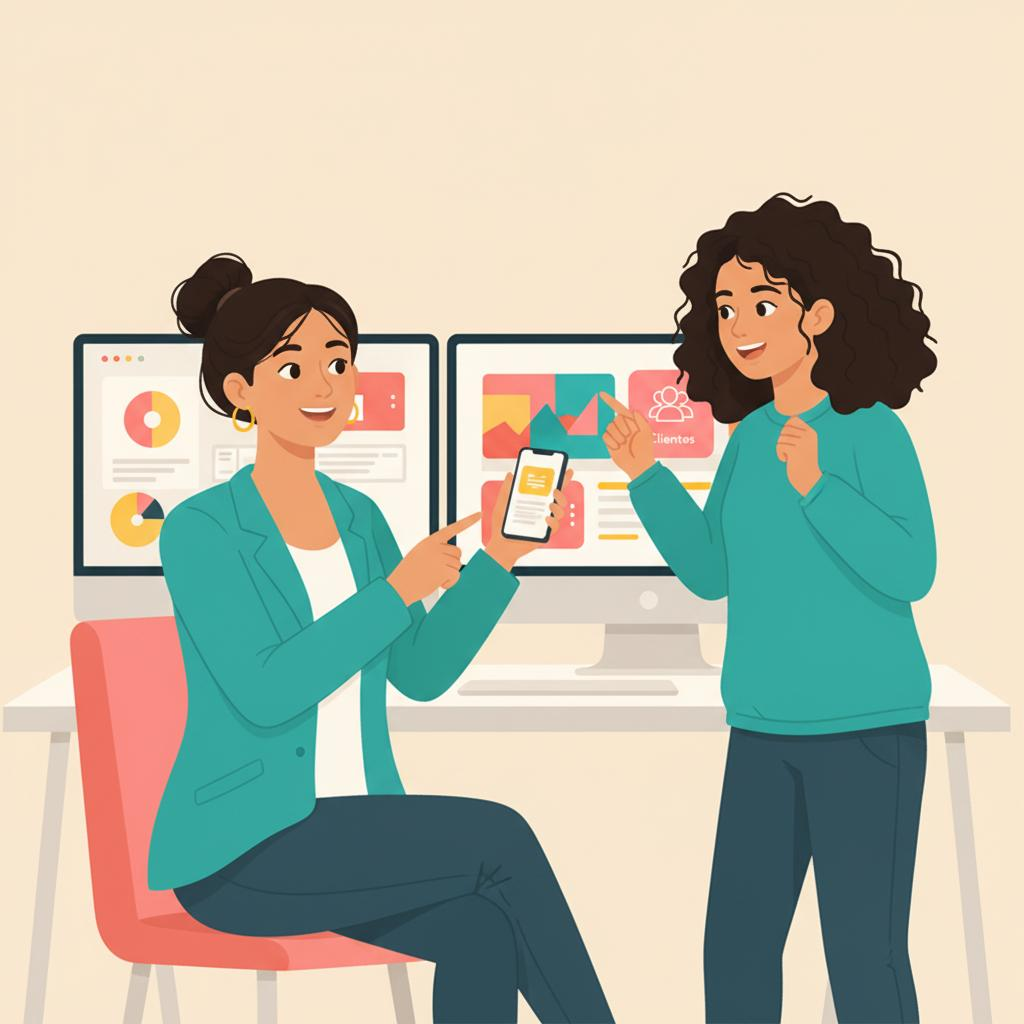
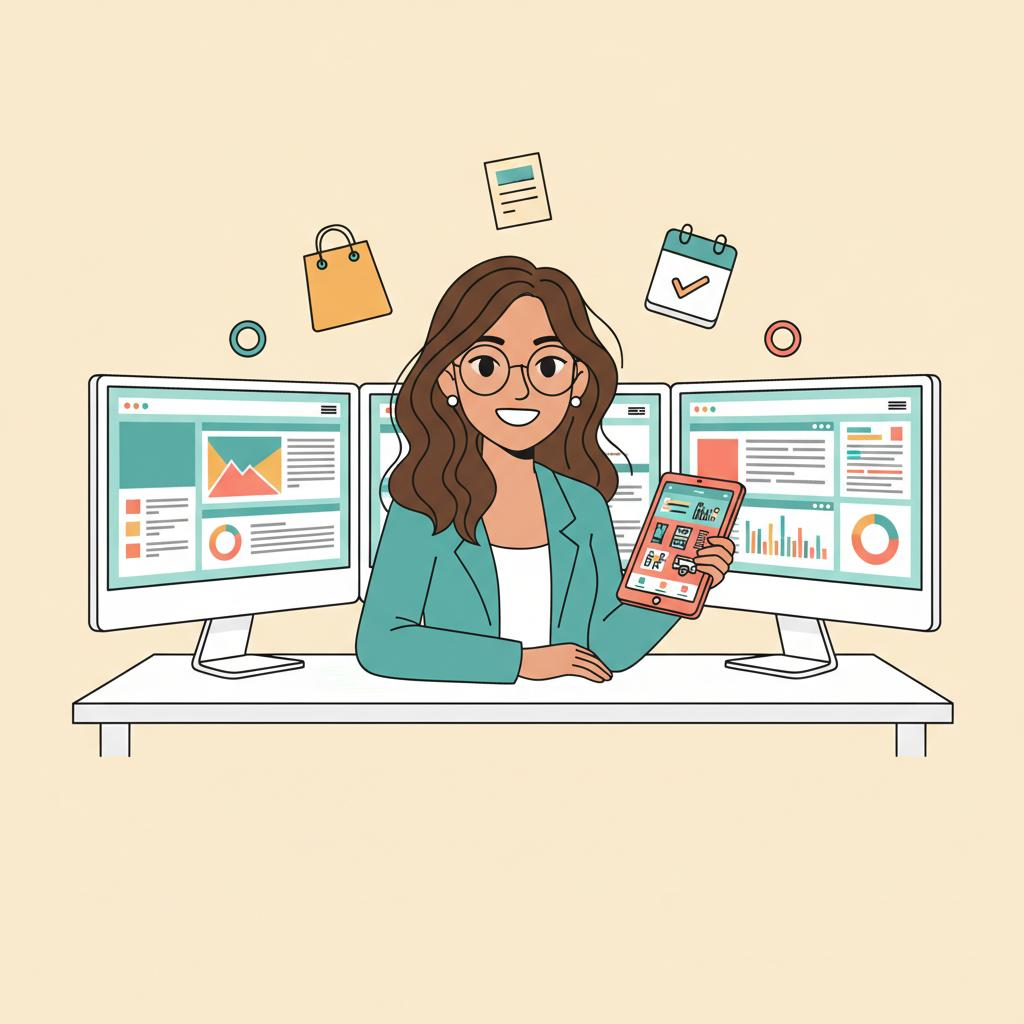
Add files via upload

diff --git a/vite.config.ts b/vite.config.ts
@@ -5,7 +5,7 @@ import { inspectAttr } from 'kimi-plugin-inspect-react'
 
 // https://vite.dev/config/
 export default defineConfig({
-  base: './',
+  base: '/cafeina.ai/',
   plugins: [inspectAttr(), react()],
   server: {
     port: 3000,